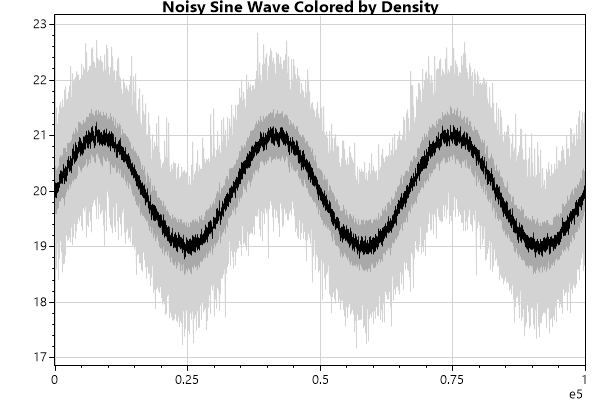
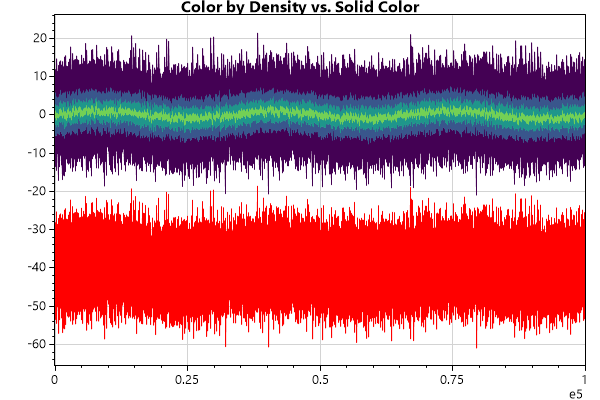
update cookbook

diff --git a/cookbook/cookbook.html b/cookbook/cookbook.html
@@ -994,8 +994,8 @@ plt.Save(600, 400, "64_Manual_Grid_Spacing.png");
 Random rand = new Random(0);
 double[] values1 = ScottPlot.DataGen.RandomNormal(rand, pointCount: 1000, mean: 50, stdDev: 20);
 double[] values2 = ScottPlot.DataGen.RandomNormal(rand, pointCount: 1000, mean: 45, stdDev: 25);
-var hist1 = new ScottPlot.Histogram(values1, min: 0, max: 100);
-var hist2 = new ScottPlot.Histogram(values2, min: 0, max: 100);
+var hist1 = new ScottPlot.Statistics.Histogram(values1, min: 0, max: 100);
+var hist2 = new ScottPlot.Statistics.Histogram(values2, min: 0, max: 100);
 
 var plt = new ScottPlot.Plot(width, height);
 plt.Title("Cumulative Probability Histogram");
@@ -1164,25 +1164,57 @@ plt.Save(600, 400, "74_Set_Visibility.png");
 // underneath all those overlapping data points. If you send an array of colors
 // to PlotSignal(), it will use those colors to display density.
 
-// create a signal with some noisy data
+// create an extremely noisy signal with a subtle sine wave beneath it
 Random rand = new Random(0);
 int pointCount = 100_000;
 double[] signal1 = ScottPlot.DataGen.Sin(pointCount, 3);
-double[] noise = ScottPlot.DataGen.RandomNormal(rand, pointCount, 20);
+double[] noise = ScottPlot.DataGen.RandomNormal(rand, pointCount, 0, 5);
 double[] data = new double[pointCount];
 for (int i = 0; i < data.Length; i++)
     data[i] = signal1[i] + noise[i];
 
+// plot the noisy signal using the traditional method
 var plt = new ScottPlot.Plot(width, height);
+plt.PlotSignal(data, yOffset: -40, color: Color.Red);
 
 // use a color array for displaying data from low to high density
-Color[] colors = new Color[] { Color.LightGray, Color.DarkGray, Color.Black };
+Color[] colors = new Color[]
+{
+    ColorTranslator.FromHtml("#440154"),
+    ColorTranslator.FromHtml("#39568C"),
+    ColorTranslator.FromHtml("#1F968B"),
+    ColorTranslator.FromHtml("#73D055"),
+};
 plt.PlotSignal(data, colorByDensity: colors);
 
-plt.Title("Noisy Sine Wave Colored by Density");
+plt.Title("Color by Density vs. Solid Color");
 plt.AxisAuto(0, .1);
 
 plt.Save(600, 400, "75_Color_By_Density.png");
+</pre>
+<h2><br>Linear Regression</h2>
+<img src='images/76_Linear_Regression.png'>
+<pre style='font-family: monospace; background-color: #DDD; padding: 10px;'>
+// Create some linear but noisy data
+Random rand = new Random(0);
+double[] ys = ScottPlot.DataGen.NoisyLinear(rand, pointCount: 100, noise: 30);
+double[] xs = ScottPlot.DataGen.Consecutive(ys.Length);
+double x1 = xs[0];
+double x2 = xs[xs.Length - 1];
+
+// use the linear regression fitter to fit these data
+var model = new ScottPlot.Statistics.LinearRegressionLine(xs, ys);
+double y1 = model.GetValueAt(x1);
+double y2 = model.GetValueAt(x2);
+
+// plot the original data and add the regression line
+var plt = new ScottPlot.Plot(width, height);
+plt.PlotScatter(xs, ys, lineWidth: 0, label: "original data");
+plt.PlotLine(x1, y1, x2, y2, lineWidth: 3, label: "linear regression");
+plt.Legend();
+plt.Title(model.ToString());
+
+plt.Save(600, 400, "76_Linear_Regression.png");
 </pre>
 </body>
 </html>

diff --git a/cookbook/readme.md b/cookbook/readme.md
@@ -1334,8 +1334,8 @@ plt.Save(600, 400, "64_Manual_Grid_Spacing.png");
 Random rand = new Random(0);
 double[] values1 = ScottPlot.DataGen.RandomNormal(rand, pointCount: 1000, mean: 50, stdDev: 20);
 double[] values2 = ScottPlot.DataGen.RandomNormal(rand, pointCount: 1000, mean: 45, stdDev: 25);
-var hist1 = new ScottPlot.Histogram(values1, min: 0, max: 100);
-var hist2 = new ScottPlot.Histogram(values2, min: 0, max: 100);
+var hist1 = new ScottPlot.Statistics.Histogram(values1, min: 0, max: 100);
+var hist2 = new ScottPlot.Statistics.Histogram(values2, min: 0, max: 100);
 
 var plt = new ScottPlot.Plot(width, height);
 plt.Title("Cumulative Probability Histogram");
@@ -1564,27 +1564,65 @@ plt.Save(600, 400, "74_Set_Visibility.png");
 // underneath all those overlapping data points. If you send an array of colors
 // to PlotSignal(), it will use those colors to display density.
 
-// create a signal with some noisy data
+// create an extremely noisy signal with a subtle sine wave beneath it
 Random rand = new Random(0);
 int pointCount = 100_000;
 double[] signal1 = ScottPlot.DataGen.Sin(pointCount, 3);
-double[] noise = ScottPlot.DataGen.RandomNormal(rand, pointCount, 20);
+double[] noise = ScottPlot.DataGen.RandomNormal(rand, pointCount, 0, 5);
 double[] data = new double[pointCount];
 for (int i = 0; i < data.Length; i++)
     data[i] = signal1[i] + noise[i];
 
+// plot the noisy signal using the traditional method
 var plt = new ScottPlot.Plot(width, height);
+plt.PlotSignal(data, yOffset: -40, color: Color.Red);
 
 // use a color array for displaying data from low to high density
-Color[] colors = new Color[] { Color.LightGray, Color.DarkGray, Color.Black };
+Color[] colors = new Color[]
+{
+    ColorTranslator.FromHtml("#440154"),
+    ColorTranslator.FromHtml("#39568C"),
+    ColorTranslator.FromHtml("#1F968B"),
+    ColorTranslator.FromHtml("#73D055"),
+};
 plt.PlotSignal(data, colorByDensity: colors);
 
-plt.Title("Noisy Sine Wave Colored by Density");
+plt.Title("Color by Density vs. Solid Color");
 plt.AxisAuto(0, .1);
 
 plt.Save(600, 400, "75_Color_By_Density.png");
 ```
 
 ![](images/75_Color_By_Density.png)
+
+
+
+
+## Linear Regression
+
+```cs
+// Create some linear but noisy data
+Random rand = new Random(0);
+double[] ys = ScottPlot.DataGen.NoisyLinear(rand, pointCount: 100, noise: 30);
+double[] xs = ScottPlot.DataGen.Consecutive(ys.Length);
+double x1 = xs[0];
+double x2 = xs[xs.Length - 1];
+
+// use the linear regression fitter to fit these data
+var model = new ScottPlot.Statistics.LinearRegressionLine(xs, ys);
+double y1 = model.GetValueAt(x1);
+double y2 = model.GetValueAt(x2);
+
+// plot the original data and add the regression line
+var plt = new ScottPlot.Plot(width, height);
+plt.PlotScatter(xs, ys, lineWidth: 0, label: "original data");
+plt.PlotLine(x1, y1, x2, y2, lineWidth: 3, label: "linear regression");
+plt.Legend();
+plt.Title(model.ToString());
+
+plt.Save(600, 400, "76_Linear_Regression.png");
+```
+
+![](images/76_Linear_Regression.png)
 
 
